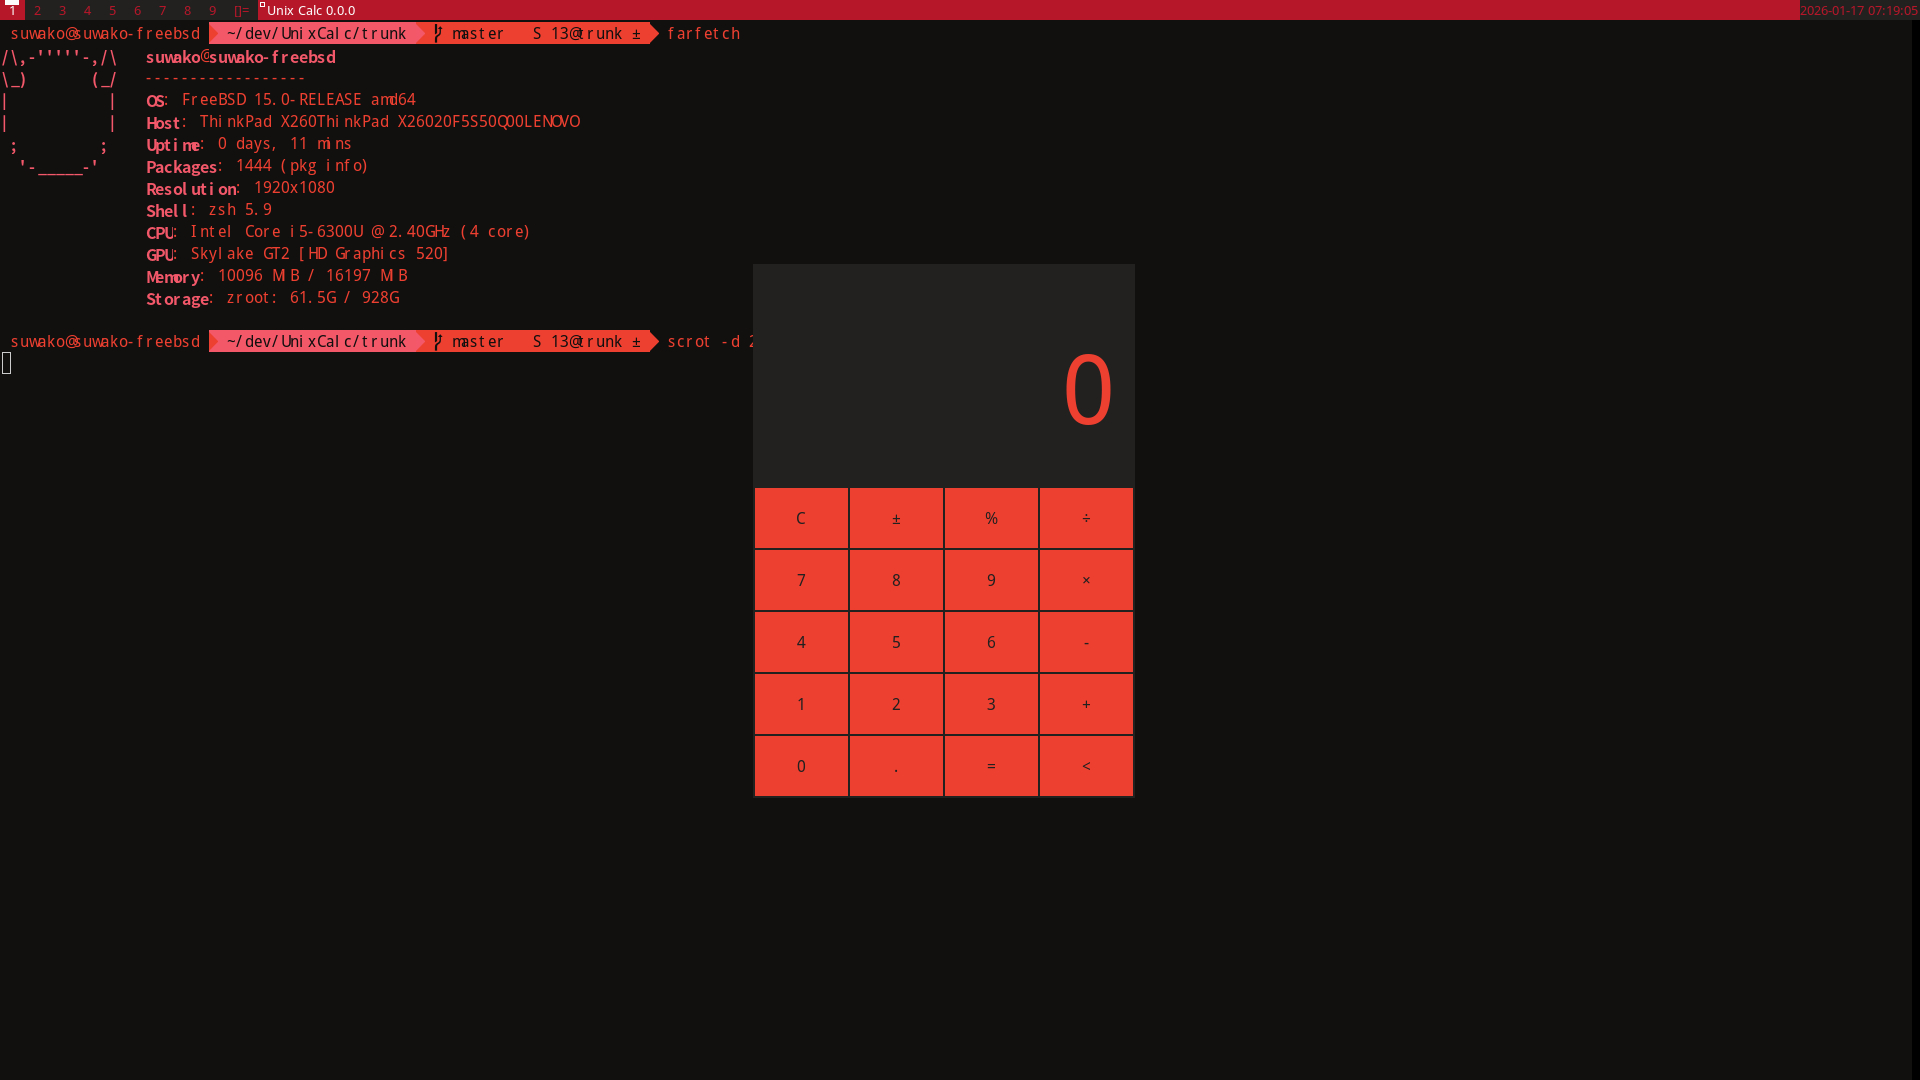
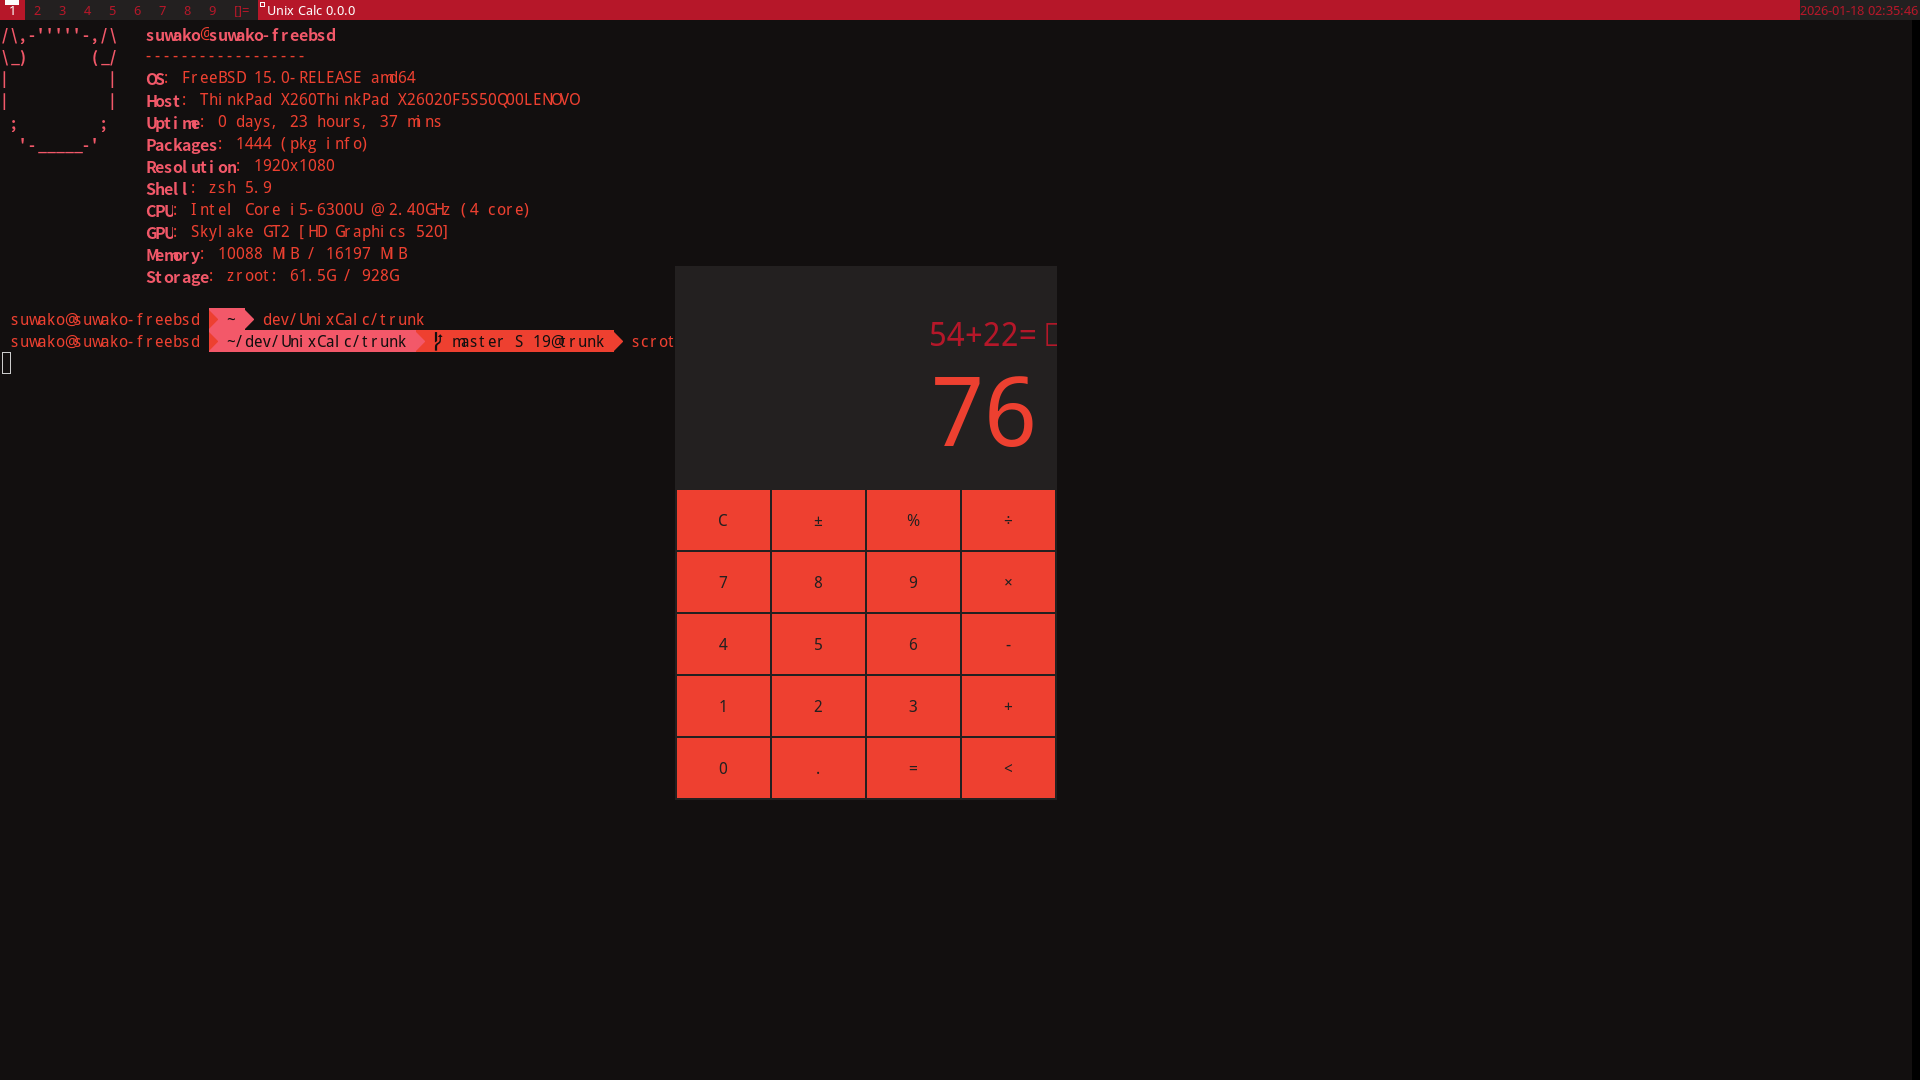
OpenBSD対応

diff --git a/main.c b/main.c
@@ -110,7 +110,11 @@ int main() {
   int w = attr.width;
 
   {
+#if defined(__OpenBSD__)
+    ui.resLabel.font = XftFontOpenName(ui.display, screen, "Noto Sans CJK-48");
+#elif defined(__FreeBSD__)
     ui.resLabel.font = XftFontOpenName(ui.display, screen, "Noto Sans CJK-72");
+#endif
     if (!ui.resLabel.font) {
       cleanup(&ui);
       fprintf(stderr, "解決フォントの読み込みに失敗。\n");
@@ -131,7 +135,11 @@ int main() {
     if (!XftColorAllocName(ui.display,
         DefaultVisual(ui.display, DefaultScreen(ui.display)),
         DefaultColormap(ui.display, DefaultScreen(ui.display)),
+#if defined(__OpenBSD__)
+        "#f1ed25", &ui.resLabel.fg_color)) {
+#elif defined(__FreeBSD__)
         "#ee4030", &ui.resLabel.fg_color)) {
+#endif
       cleanup(&ui);
       fprintf(stderr, "色の役割に失敗。\n");
       exit(1);
@@ -139,7 +147,11 @@ int main() {
   }
 
   {
+#if defined(__OpenBSD__)
+    ui.problemLabel.font = XftFontOpenName(ui.display, screen, "Noto Sans CJK-12");
+#elif defined(__FreeBSD__)
     ui.problemLabel.font = XftFontOpenName(ui.display, screen, "Noto Sans CJK-24");
+#endif
     if (!ui.problemLabel.font) {
       cleanup(&ui);
       fprintf(stderr, "問題フォントの読み込みに失敗。\n");
@@ -159,21 +171,33 @@ int main() {
     if (!XftColorAllocName(ui.display,
         DefaultVisual(ui.display, DefaultScreen(ui.display)),
         DefaultColormap(ui.display, DefaultScreen(ui.display)),
+#if defined(__OpenBSD__)
+        "#b8b515", &ui.problemLabel.fg_color)) {
+#elif defined(__FreeBSD__)
         "#b61729", &ui.problemLabel.fg_color)) {
+#endif
       cleanup(&ui);
       fprintf(stderr, "色の役割に失敗。\n");
       exit(1);
     }
   }
 
+#if defined(__OpenBSD__)
+  ui.font = XftFontOpenName(ui.display, screen, "Noto Sans CJK-8");
+#elif defined(__FreeBSD__)
   ui.font = XftFontOpenName(ui.display, screen, "Noto Sans CJK-12");
+#endif
   if (!ui.font) {
     cleanup(&ui);
     fprintf(stderr, "フォントの読み込みに失敗。\n");
     exit(1);
   }
 
+#if defined(__OpenBSD__)
+  if (!XftColorAllocName(ui.display, &ui.visual, ui.colormap, "#232320", &ui.color)) {
+#elif defined(__FreeBSD__)
   if (!XftColorAllocName(ui.display, &ui.visual, ui.colormap, "#232020", &ui.color)) {
+#endif
     cleanup(&ui);
     fprintf(stderr, "色の役割に失敗。\n");
     exit(1);

diff --git a/src/control.c b/src/control.c
@@ -215,7 +215,11 @@ void control_expose(UiSystem *ui, XEvent *e) {
     XftColorAllocName(ui->display,
       DefaultVisual(ui->display, DefaultScreen(ui->display)),
       DefaultColormap(ui->display, DefaultScreen(ui->display)),
+#if defined(__OpenBSD__)
+      "#232320", &buttonColor);
+#elif defined(__FreeBSD__)
       "#232020", &buttonColor);
+#endif
   }
   initialized = 1;
 

diff --git a/src/ui.h b/src/ui.h
@@ -4,10 +4,17 @@
 #include <X11/Xft/Xft.h>
 
 #define FGCOL 0xfcfcfc
+#if defined(__OpenBSD__)
+#define BGCOL 0x232320
+#define BTSEL 0xb8b515
+#define BTCOL 0xf1ed25
+#define BTHVR 0xecea71
+#elif defined(__OpenBSD__)
 #define BGCOL 0x232020
 #define BTSEL 0xb61729
 #define BTCOL 0xee4030
 #define BTHVR 0xf35869
+#endif
 
 typedef struct {
   int x, y, width, height;
